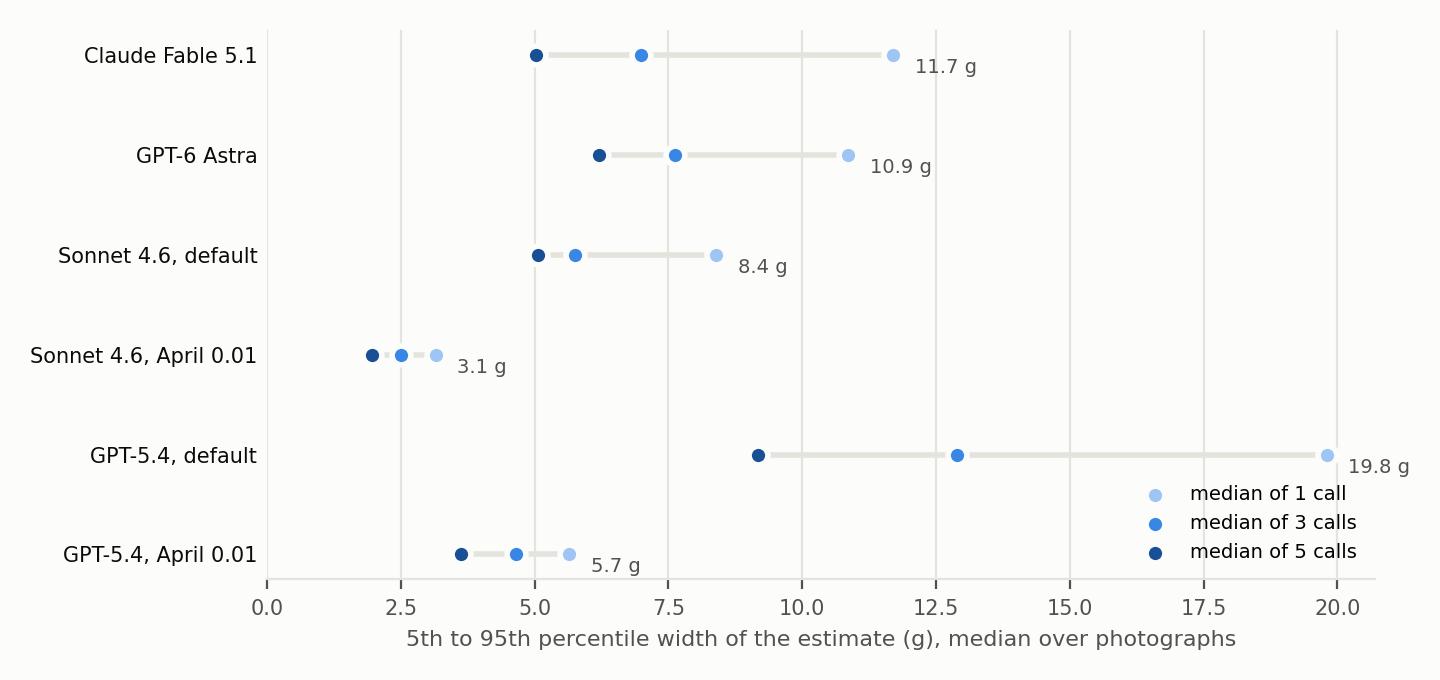
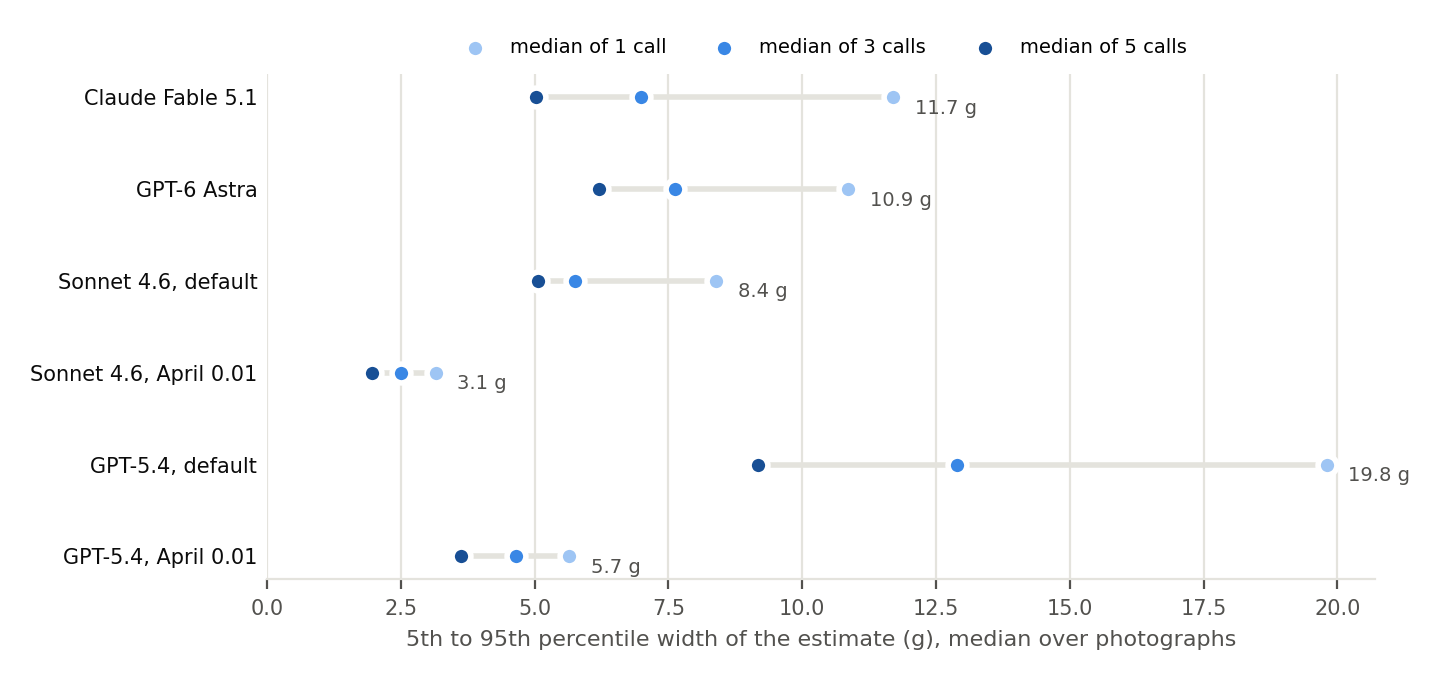
Figures on a white ground with the median-of-k legend above the plot
The off-white chart surface printed as a visible box on the preprint's
white page, and the legend sat inside the plot area.

diff --git a/update_analysis.py b/update_analysis.py
@@ -220,7 +220,7 @@ def fig_cv(summary: dict, path: Path) -> None:
     import matplotlib
     matplotlib.use("Agg")
     import matplotlib.pyplot as plt
-    ink, muted, grid, surface = "#0b0b0b", "#52514e", "#e4e3dd", "#fcfcfb"
+    ink, muted, grid, surface = "#0b0b0b", "#52514e", "#e4e3dd", "#ffffff"
     blue, grey = "#2a78d6", "#8d8c85"
     fig, ax = plt.subplots(figsize=(7.2, 3.6), dpi=200)
     fig.patch.set_facecolor(surface)
@@ -257,7 +257,7 @@ def fig_averaging(widths: dict, path: Path) -> None:
     import matplotlib
     matplotlib.use("Agg")
     import matplotlib.pyplot as plt
-    ink, muted, grid, surface = "#0b0b0b", "#52514e", "#e4e3dd", "#fcfcfb"
+    ink, muted, grid, surface = "#0b0b0b", "#52514e", "#e4e3dd", "#ffffff"
     ramp = {1: "#9ec5f4", 3: "#3987e5", 5: "#184f95"}
     fig, ax = plt.subplots(figsize=(7.2, 3.4), dpi=200)
     fig.patch.set_facecolor(surface)
@@ -281,7 +281,7 @@ def fig_averaging(widths: dict, path: Path) -> None:
         ax.spines[s].set_visible(False)
     ax.spines["bottom"].set_color(grid)
     ax.set_xlim(left=0)
-    ax.legend(fontsize=7, frameon=False, loc="lower right")
+    ax.legend(fontsize=7, frameon=False, loc="lower center", bbox_to_anchor=(0.5, 1.0), ncol=3)
     fig.tight_layout()
     fig.savefig(path, facecolor=surface)
     plt.close(fig)
